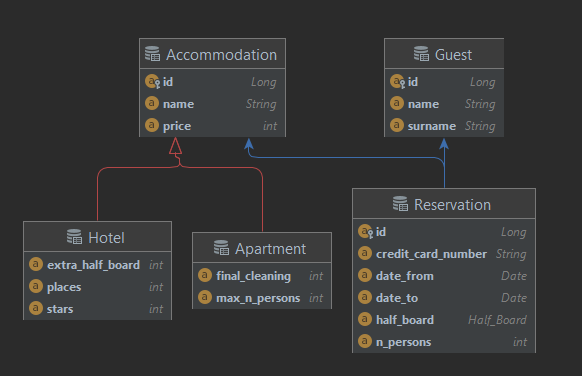
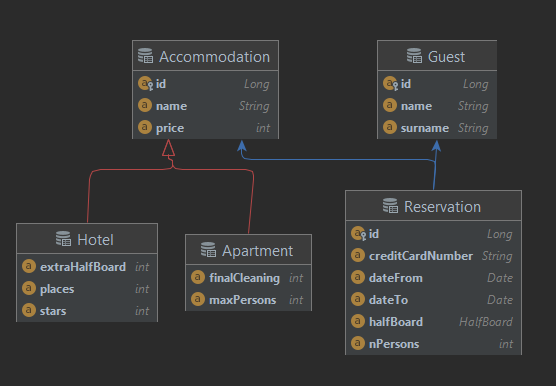
Assignment 5 - update db fields

diff --git a/Assignment5/Assignment5_Vinci_Nicolo/EJB_app/src/main/java/it/unitn/disi/vinci/entities/Reservation.java b/Assignment5/Assignment5_Vinci_Nicolo/EJB_app/src/main/java/it/unitn/disi/vinci/entities/Reservation.java
@@ -11,7 +11,7 @@ public class Reservation implements Serializable {
 
     private static final long serialVersionUID = -4581598877222772474L;
 
-    public enum Half_Board {
+    public enum HalfBoard {
         Yes,
         No,
         Null
@@ -28,21 +28,21 @@ public class Reservation implements Serializable {
     @OneToOne(cascade = CascadeType.PERSIST, fetch = FetchType.LAZY)
     private Accommodation accommodation;
 
-    @Column(name = "persons_number", nullable = false)
-    private int n_persons;
+    @Column(name = "nPersons", nullable = false)
+    private int nPersons;
 
-    @Column(name = "credit_card_number", nullable = false)
-    private String credit_card_number;
+    @Column(name = "creditCardNumber", nullable = false)
+    private String creditCardNumber;
 
-    @Column(name = "date_from", nullable = false)
-    private Date date_from;
+    @Column(name = "dateFrom", nullable = false)
+    private Date dateFrom;
 
-    @Column(name = "date_to", nullable = false)
-    private Date date_to;
+    @Column(name = "dateTo", nullable = false)
+    private Date dateTo;
 
     @Enumerated(EnumType.STRING)
-    @Column(name = "half_board", nullable = false)
-    private Half_Board half_board;
+    @Column(name = "halfBoard", nullable = false)
+    private HalfBoard halfBoard;
 
     public Reservation() {
     }
@@ -71,44 +71,44 @@ public class Reservation implements Serializable {
         this.accommodation = accommodation;
     }
 
-    public int getN_persons() {
-        return n_persons;
+    public int getNPersons() {
+        return nPersons;
     }
 
-    public void setN_persons(int n_persons) {
-        this.n_persons = n_persons;
+    public void setNPersons(int n_persons) {
+        this.nPersons = n_persons;
     }
 
-    public String getCredit_card_number() {
-        return credit_card_number;
+    public String getCreditCardNumber() {
+        return creditCardNumber;
     }
 
-    public void setCredit_card_number(String credit_card_number) {
-        this.credit_card_number = credit_card_number;
+    public void setCreditCardNumber(String credit_card_number) {
+        this.creditCardNumber = credit_card_number;
     }
 
-    public Date getDate_from() {
-        return date_from;
+    public Date getDateFrom() {
+        return dateFrom;
     }
 
-    public void setDate_from(Date from) {
-        this.date_from = from;
+    public void setDateFrom(Date from) {
+        this.dateFrom = from;
     }
 
-    public Date getDate_to() {
-        return date_to;
+    public Date getDateTo() {
+        return dateTo;
     }
 
-    public void setDate_to(Date to) {
-        this.date_to = to;
+    public void setDateTo(Date to) {
+        this.dateTo = to;
     }
 
-    public Half_Board getHalf_board() {
-        return half_board;
+    public HalfBoard getHalfBoard() {
+        return halfBoard;
     }
 
-    public void setHalf_board(Half_Board half_board) {
-        this.half_board = half_board;
+    public void setHalfBoard(HalfBoard half_board) {
+        this.halfBoard = half_board;
     }
 
     @Override
@@ -118,16 +118,16 @@ public class Reservation implements Serializable {
 
         Reservation that = (Reservation) o;
 
-        if (n_persons != that.n_persons) return false;
+        if (nPersons != that.nPersons) return false;
         if (!Objects.equals(id, that.id)) return false;
         if (!Objects.equals(guest, that.guest)) return false;
         if (!Objects.equals(accommodation, that.accommodation))
             return false;
-        if (!Objects.equals(credit_card_number, that.credit_card_number))
+        if (!Objects.equals(creditCardNumber, that.creditCardNumber))
             return false;
-        if (!Objects.equals(date_from, that.date_from)) return false;
-        if (!Objects.equals(date_to, that.date_to)) return false;
-        return half_board == that.half_board;
+        if (!Objects.equals(dateFrom, that.dateFrom)) return false;
+        if (!Objects.equals(dateTo, that.dateTo)) return false;
+        return halfBoard == that.halfBoard;
     }
 
     @Override
@@ -135,11 +135,11 @@ public class Reservation implements Serializable {
         int result = id != null ? id.hashCode() : 0;
         result = 31 * result + (guest != null ? guest.hashCode() : 0);
         result = 31 * result + (accommodation != null ? accommodation.hashCode() : 0);
-        result = 31 * result + n_persons;
-        result = 31 * result + (credit_card_number != null ? credit_card_number.hashCode() : 0);
-        result = 31 * result + (date_from != null ? date_from.hashCode() : 0);
-        result = 31 * result + (date_to != null ? date_to.hashCode() : 0);
-        result = 31 * result + (half_board != null ? half_board.hashCode() : 0);
+        result = 31 * result + nPersons;
+        result = 31 * result + (creditCardNumber != null ? creditCardNumber.hashCode() : 0);
+        result = 31 * result + (dateFrom != null ? dateFrom.hashCode() : 0);
+        result = 31 * result + (dateTo != null ? dateTo.hashCode() : 0);
+        result = 31 * result + (halfBoard != null ? halfBoard.hashCode() : 0);
         return result;
     }
 }

diff --git a/Assignment5/Assignment5_Vinci_Nicolo/EJB_app/src/main/java/it/unitn/disi/vinci/services/reservation/ReservationServiceBean.java b/Assignment5/Assignment5_Vinci_Nicolo/EJB_app/src/main/java/it/unitn/disi/vinci/services/reservation/ReservationServiceBean.java
@@ -63,19 +63,19 @@ public class ReservationServiceBean implements ReservationService {
 
     @Override
     @TransactionAttribute(TransactionAttributeType.REQUIRED)
-    public void create(final Guest guest, final Accommodation accommodation, final int n_persons, final String credit_card_number, final Date date_from, final Date date_to, final Reservation.Half_Board half_board) throws EntityCRUDException, EntityInputException {
-        if (Objects.isNull(guest) || Objects.isNull(accommodation) || n_persons==0 || Objects.isNull(credit_card_number) || Objects.isNull(date_from) || Objects.isNull(date_to) || Objects.isNull(half_board)) {
+    public void create(final Guest guest, final Accommodation accommodation, final int nPersons, final String creditCardNumber, final Date dateFrom, final Date dateTo, final Reservation.HalfBoard halfBoard) throws EntityCRUDException, EntityInputException {
+        if (Objects.isNull(guest) || Objects.isNull(accommodation) || nPersons ==0 || Objects.isNull(creditCardNumber) || Objects.isNull(dateFrom) || Objects.isNull(dateTo) || Objects.isNull(halfBoard)) {
             throw new EntityInputException("All input parameters are needed to create a Reservation");
         }
         try {
             final Reservation reservation = new Reservation();
             reservation.setGuest(guest);
             reservation.setAccommodation(accommodation);
-            reservation.setN_persons(n_persons);
-            reservation.setCredit_card_number(credit_card_number);
-            reservation.setDate_from(date_from);
-            reservation.setDate_to(date_to);
-            reservation.setHalf_board(half_board);
+            reservation.setNPersons(nPersons);
+            reservation.setCreditCardNumber(creditCardNumber);
+            reservation.setDateFrom(dateFrom);
+            reservation.setDateTo(dateTo);
+            reservation.setHalfBoard(halfBoard);
             this.entityManager.persist(reservation);
         } catch (final Exception e) {
             context.setRollbackOnly();

diff --git a/Assignment5/Assignment5_Vinci_Nicolo/EJB_app/src/main/java/it/unitn/disi/vinci/entities/Apartment.java b/Assignment5/Assignment5_Vinci_Nicolo/EJB_app/src/main/java/it/unitn/disi/vinci/entities/Apartment.java
@@ -11,30 +11,30 @@ public class Apartment extends Accommodation implements Serializable {
 
     private static final long serialVersionUID = 8815481020514640832L;
 
-    @Column(name = "final_cleaning", nullable = false)
-    private int final_cleaning;
+    @Column(name = "finalCleaning", nullable = false)
+    private int finalCleaning;
 
-    @Column(name = "max_n_persons", nullable = false)
-    private int max_n_persons;
+    @Column(name = "maxPersons", nullable = false)
+    private int maxPersons;
 
     public Apartment() {
         super();
     }
 
-    public int getFinal_cleaning() {
-        return final_cleaning;
+    public int getFinalCleaning() {
+        return finalCleaning;
     }
 
-    public void setFinal_cleaning(int final_cleaning) {
-        this.final_cleaning = final_cleaning;
+    public void setFinalCleaning(int final_cleaning) {
+        this.finalCleaning = final_cleaning;
     }
 
-    public int getMax_n_persons() {
-        return max_n_persons;
+    public int getMaxPersons() {
+        return maxPersons;
     }
 
-    public void setMax_n_persons(int max_n_persons) {
-        this.max_n_persons = max_n_persons;
+    public void setMaxPersons(int max_n_persons) {
+        this.maxPersons = max_n_persons;
     }
 
     @Override
@@ -45,15 +45,15 @@ public class Apartment extends Accommodation implements Serializable {
 
         Apartment apartment = (Apartment) o;
 
-        if (final_cleaning != apartment.final_cleaning) return false;
-        return max_n_persons == apartment.max_n_persons;
+        if (finalCleaning != apartment.finalCleaning) return false;
+        return maxPersons == apartment.maxPersons;
     }
 
     @Override
     public int hashCode() {
         int result = super.hashCode();
-        result = 31 * result + final_cleaning;
-        result = 31 * result + max_n_persons;
+        result = 31 * result + finalCleaning;
+        result = 31 * result + maxPersons;
         return result;
     }
 }

diff --git a/Assignment5/Assignment5_Vinci_Nicolo/EJB_app/src/main/java/it/unitn/disi/vinci/entities/Hotel.java b/Assignment5/Assignment5_Vinci_Nicolo/EJB_app/src/main/java/it/unitn/disi/vinci/entities/Hotel.java
@@ -11,8 +11,8 @@ public class Hotel extends Accommodation implements Serializable {
 
     private static final long serialVersionUID = -2040789886273628048L;
 
-    @Column(name = "extra_half_board", nullable = false)
-    private int extra_half_board;
+    @Column(name = "extraHalfBoard", nullable = false)
+    private int extraHalfBoard;
 
     @Column(name = "stars", nullable = false)
     private int stars;
@@ -24,12 +24,12 @@ public class Hotel extends Accommodation implements Serializable {
         super();
     }
 
-    public int getExtra_half_board() {
-        return extra_half_board;
+    public int getExtraHalfBoard() {
+        return extraHalfBoard;
     }
 
-    public void setExtra_half_board(int extra_half_board) {
-        this.extra_half_board = extra_half_board;
+    public void setExtraHalfBoard(int extra_half_board) {
+        this.extraHalfBoard = extra_half_board;
     }
 
     public int getStars() {
@@ -56,7 +56,7 @@ public class Hotel extends Accommodation implements Serializable {
 
         Hotel hotel = (Hotel) o;
 
-        if (extra_half_board != hotel.extra_half_board) return false;
+        if (extraHalfBoard != hotel.extraHalfBoard) return false;
         if (stars != hotel.stars) return false;
         return places == hotel.places;
     }
@@ -64,7 +64,7 @@ public class Hotel extends Accommodation implements Serializable {
     @Override
     public int hashCode() {
         int result = super.hashCode();
-        result = 31 * result + extra_half_board;
+        result = 31 * result + extraHalfBoard;
         result = 31 * result + stars;
         result = 31 * result + places;
         return result;

diff --git a/Assignment5/Assignment5_Vinci_Nicolo/EJB_app/src/main/java/it/unitn/disi/vinci/services/reservation/ReservationService.java b/Assignment5/Assignment5_Vinci_Nicolo/EJB_app/src/main/java/it/unitn/disi/vinci/services/reservation/ReservationService.java
@@ -15,7 +15,7 @@ public interface ReservationService {
     public Reservation readByID(final long id) throws EntityNotFoundException;
     public Reservation readByGuest(final Guest guest) throws EntityNotFoundException;
     public List<Reservation> readAll() throws EntityNotFoundException;
-    public void create(final Guest guest, final Accommodation accommodation, final int n_persons, final String credit_card_number, final Date date_from, final Date date_to, final Reservation.Half_Board half_board) throws EntityCRUDException, EntityInputException;
+    public void create(final Guest guest, final Accommodation accommodation, final int nPersons, final String creditCardNumber, final Date dateFrom, final Date dateTo, final Reservation.HalfBoard halfBoard) throws EntityCRUDException, EntityInputException;
     public void deleteByID(final long id) throws EntityNotFoundException, EntityCRUDException;
     public void deleteByGuest(final Guest guest) throws EntityNotFoundException, EntityCRUDException;
 }

diff --git a/Assignment5/Assignment5_Vinci_Nicolo/EJB_app/src/main/java/it/unitn/disi/vinci/services/hotel/HotelServiceBean.java b/Assignment5/Assignment5_Vinci_Nicolo/EJB_app/src/main/java/it/unitn/disi/vinci/services/hotel/HotelServiceBean.java
@@ -8,6 +8,7 @@ import javax.persistence.EntityManager;
 import javax.persistence.EntityNotFoundException;
 import javax.persistence.PersistenceContext;
 import javax.persistence.Query;
+import java.util.Date;
 import java.util.List;
 import java.util.Objects;
 
@@ -27,6 +28,12 @@ public class HotelServiceBean implements HotelService{
             throw new EntityNotFoundException(String.format("Can't find Hotel with id %d", id));
         }
         return hotel;
+    }
+
+    @Override
+    @TransactionAttribute(TransactionAttributeType.SUPPORTS)
+    public List<Hotel> readByDateFromDateTo(final Date dateFrom, final Date dateTo) throws EntityNotFoundException {
+        return null;
     }
 
     @Override

diff --git a/Assignment5/Assignment5_Vinci_Nicolo/EJB_app/src/main/java/it/unitn/disi/vinci/services/hotel/HotelService.java b/Assignment5/Assignment5_Vinci_Nicolo/EJB_app/src/main/java/it/unitn/disi/vinci/services/hotel/HotelService.java
@@ -3,10 +3,12 @@ package it.unitn.disi.vinci.services.hotel;
 import it.unitn.disi.vinci.entities.Hotel;
 
 import javax.persistence.EntityNotFoundException;
+import java.util.Date;
 import java.util.List;
 
 public interface HotelService {
 
     public Hotel readByID(final int id) throws EntityNotFoundException;
+    public List<Hotel> readByDateFromDateTo(final Date dateFrom, final Date dateTo) throws EntityNotFoundException;
     public List<Hotel> readAll() throws EntityNotFoundException;
 }
